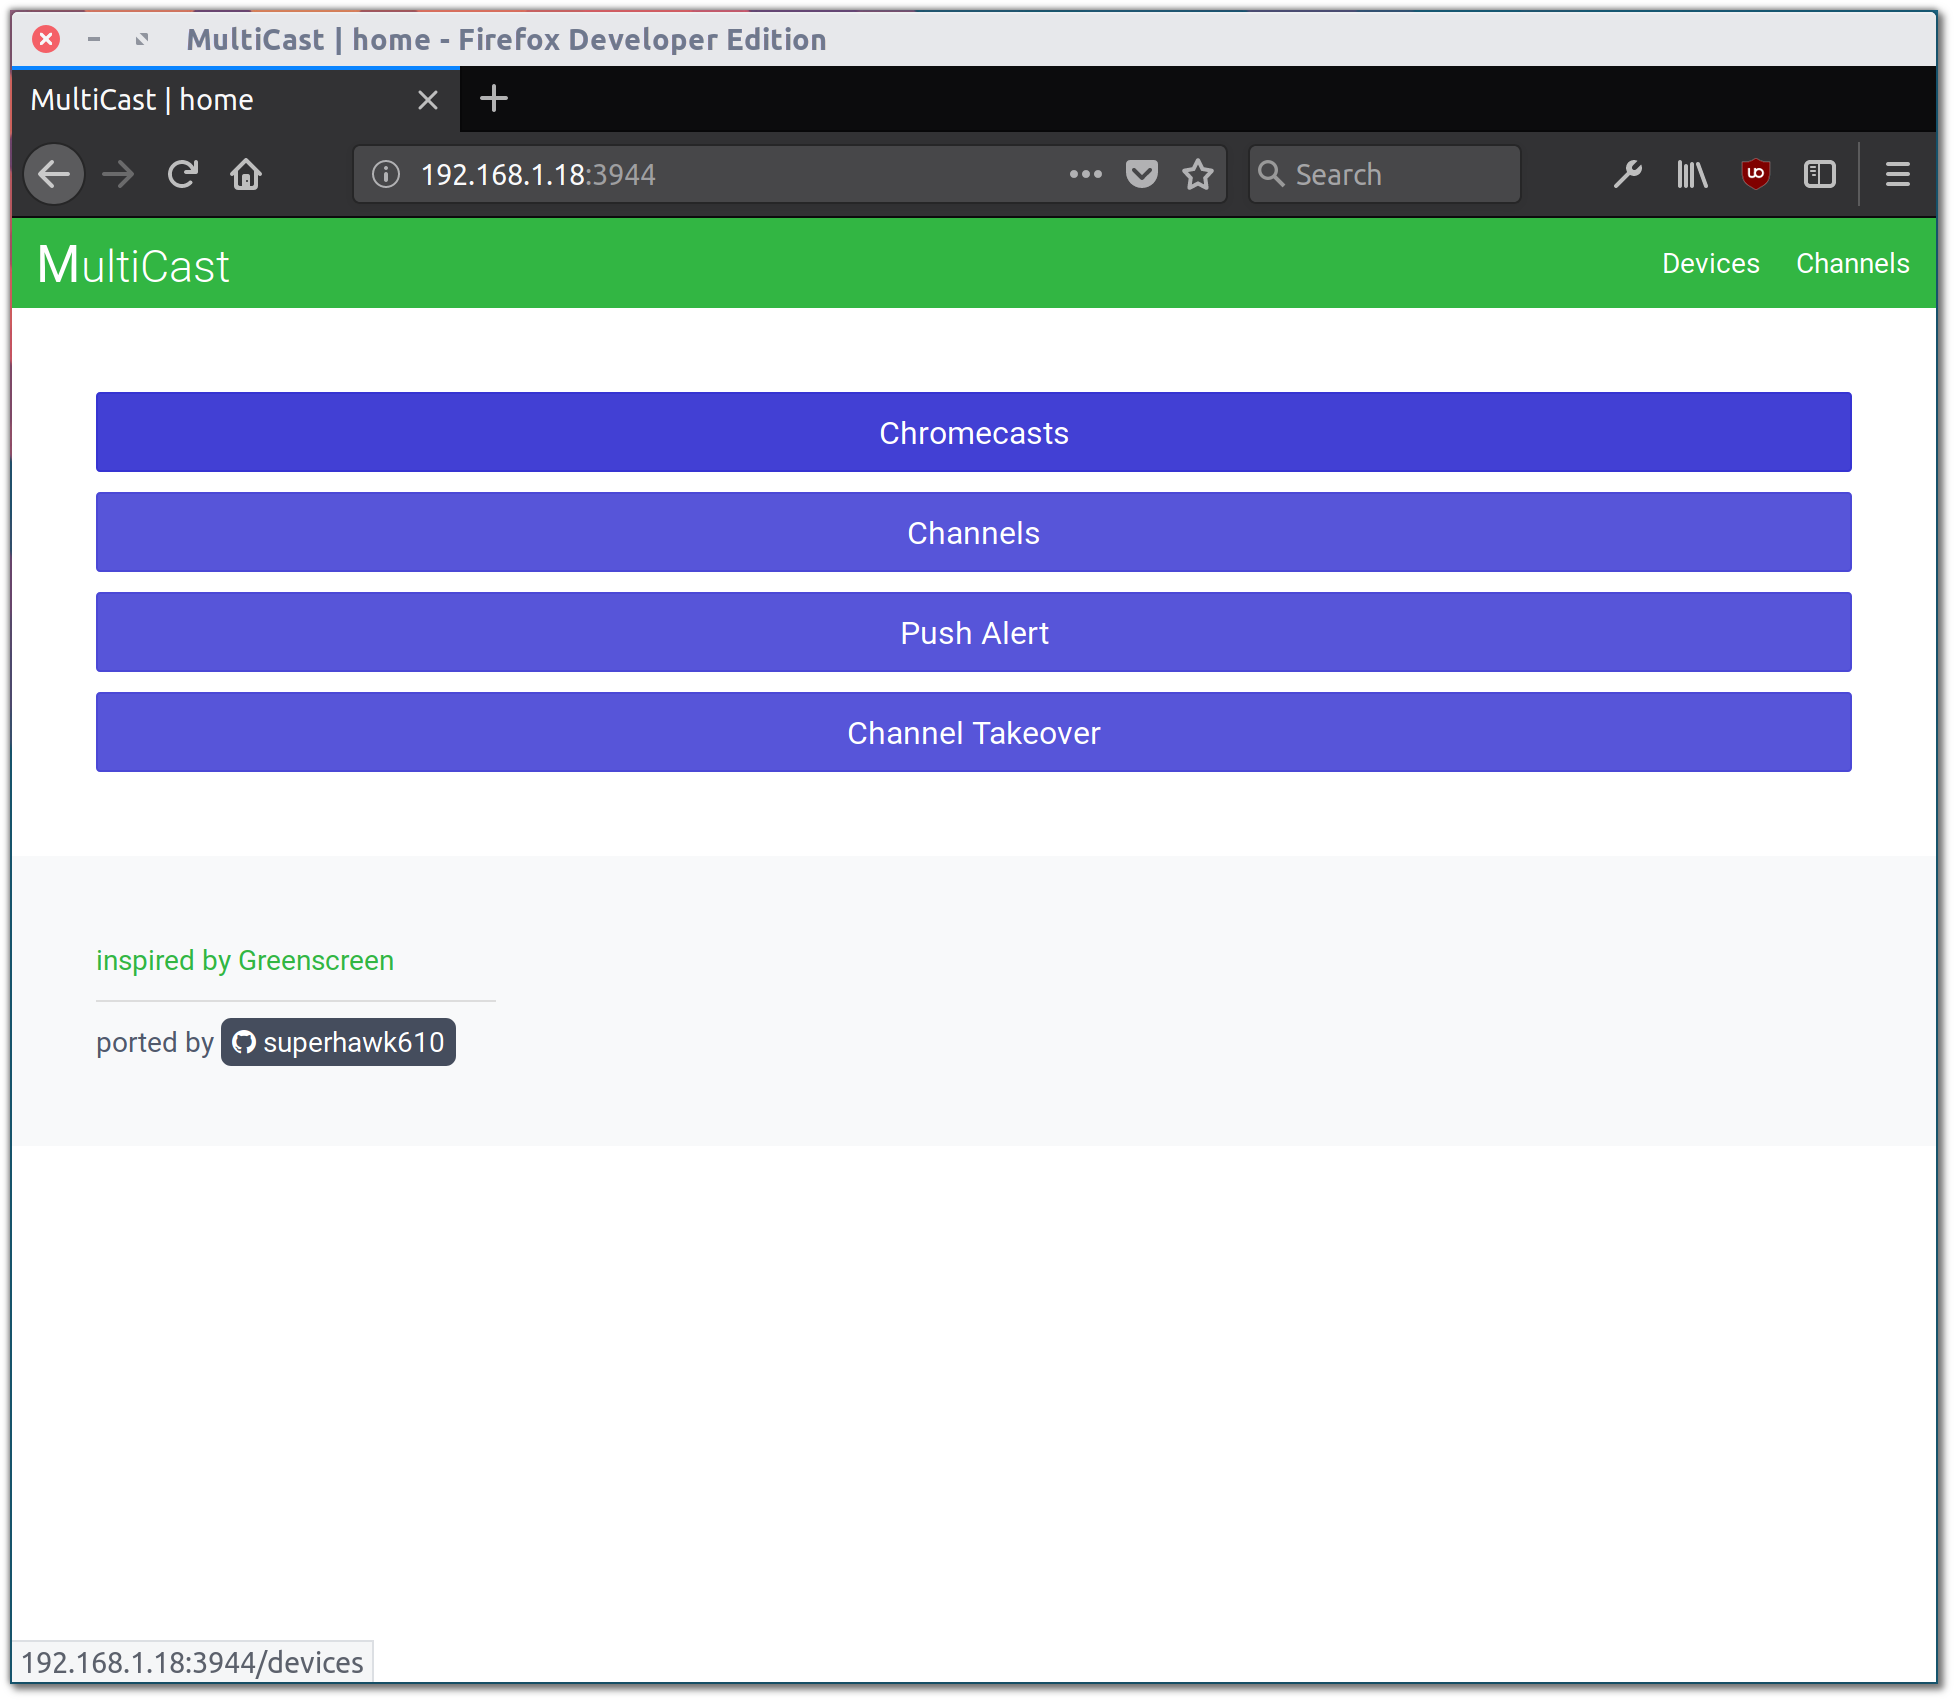
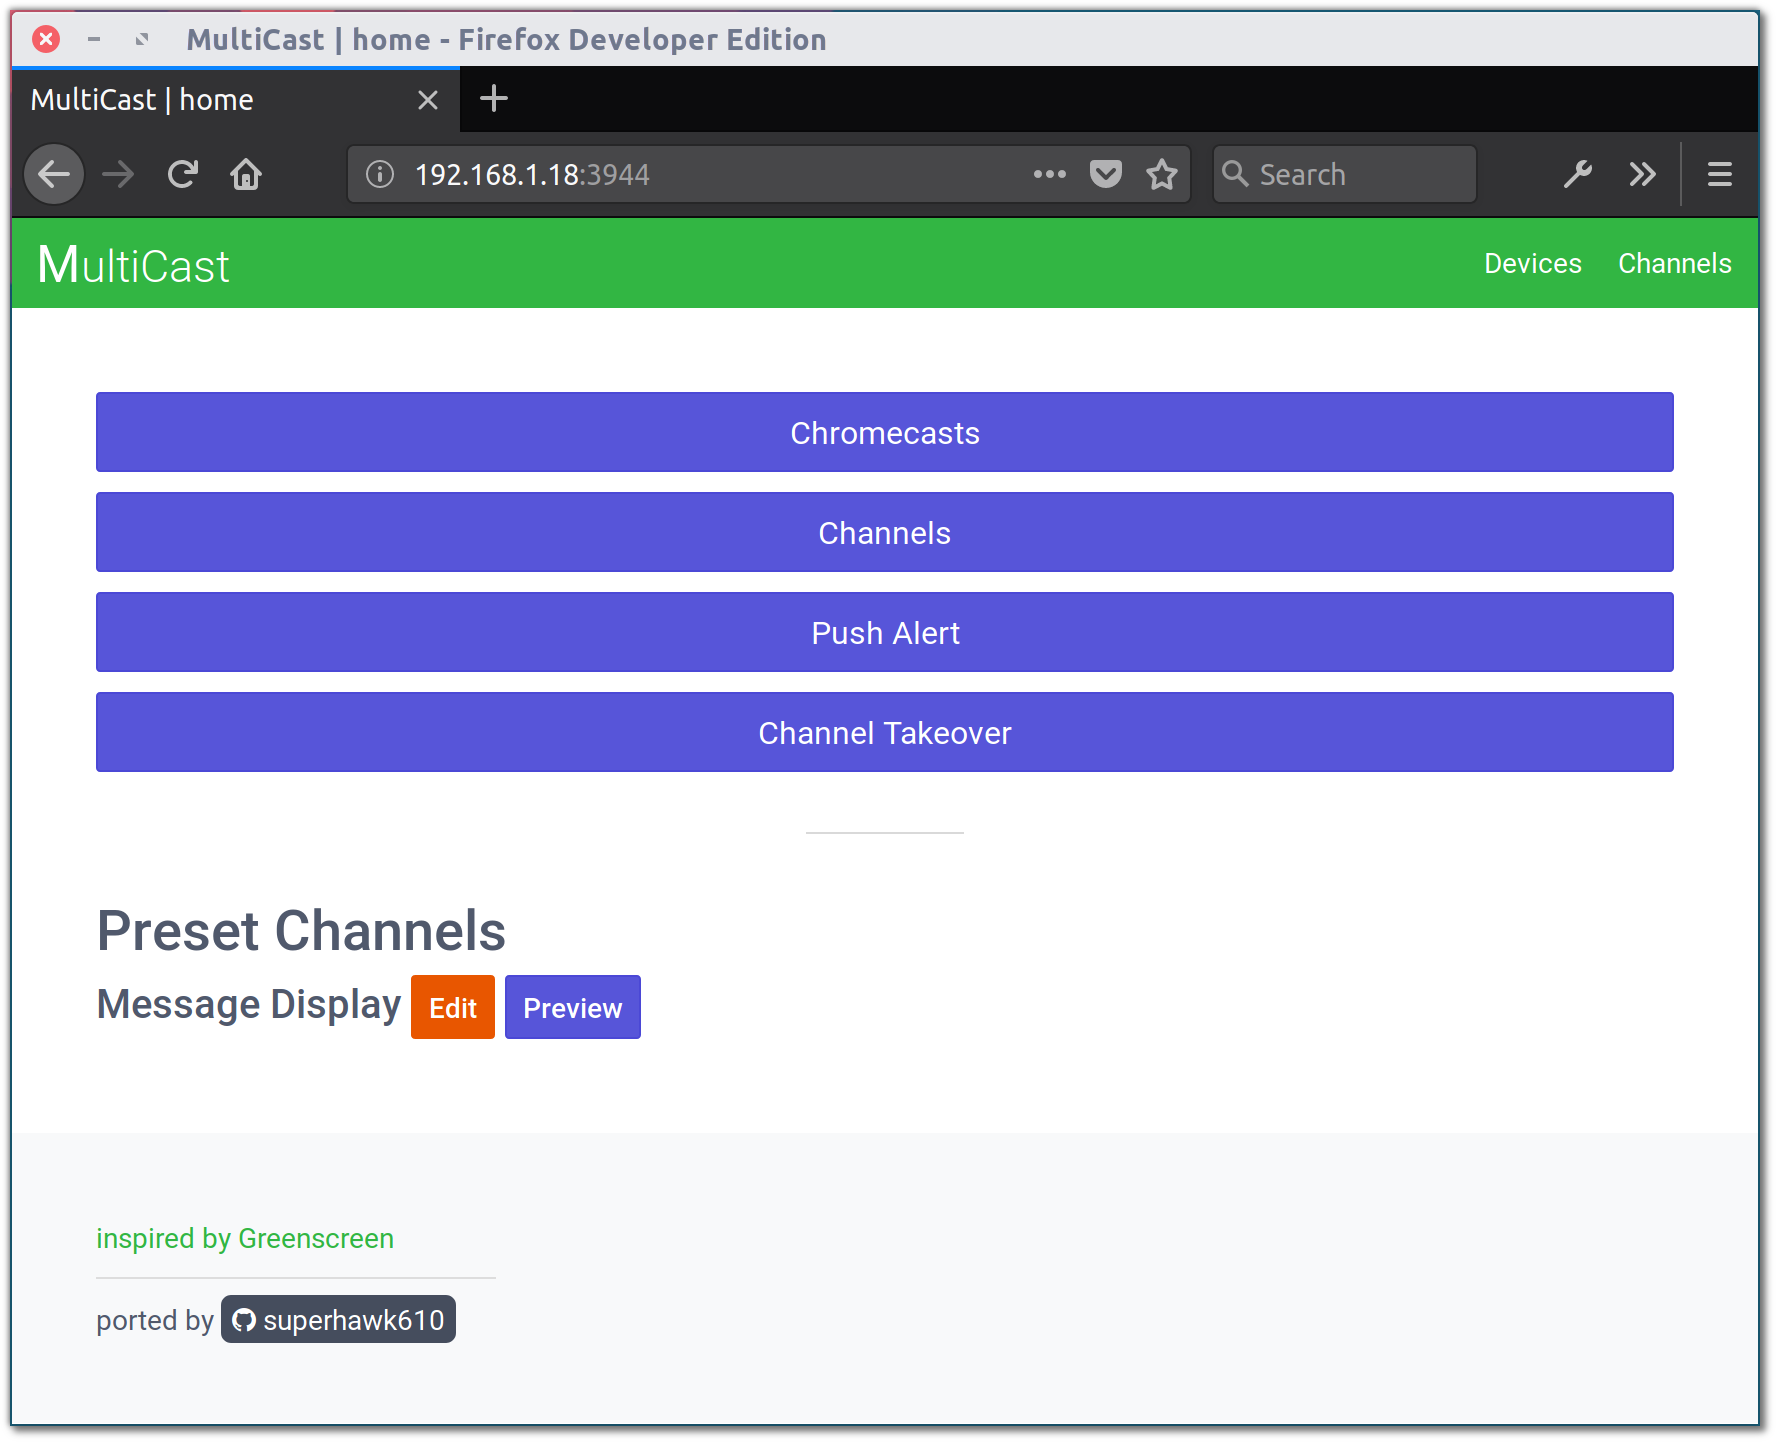
Update README.md to prep for NPM package - bumped minor version - fixed a bug where server would attempt to emit events to clients that had not connected - updated screenshot to reflect new messages channel

Changed region(s): [[0.0, 0.0, 1.0, 0.9986], [0.0619, 0.8426, 0.2787, 0.9362]]

diff --git a/app/main.js b/app/main.js
@@ -297,8 +297,11 @@ app.get('/device/:device_id', (req, res) => {
 
 app.get('/device/:device_id/connect', (req, res) => {
   var d = devices.find(d => d.deviceId == req.params.device_id)
-  if (d.status == 'offline' || d.status == 'waiting') launchHub(d.address)            // launch hub if not already open
-  else clients.find(c => stripIPv6(c.handshake.address) == d.address).emit('refresh') // hard reload page if already open
+  if (d.status == 'offline' || d.status == 'waiting') launchHub(d.address) // launch hub if not already open
+  else {                                                                   // hard reload page if already open
+    var c = clients.find(c => stripIPv6(c.handshake.address) == d.address)
+    if (c) c.emit('refresh')
+  }
   res.sendStatus(200)
 })
 
@@ -309,12 +312,14 @@ app.post('/device/:device_id/edit', (req, res) => {
     devices[i].location = req.body.location // update local info with location
     if (req.body.channel) {
       Channel.findOne({ _id: req.body.channel }).exec((err, channel) => {
-        clients.find(c => stripIPv6(c.handshake.address) == devices[i].address).emit('change_channel', channel)
+        var c = clients.find(c => stripIPv6(c.handshake.address) == devices[i].address)
+        if (c) c.emit('change_channel', channel)
         devices[i].channel = channel // update local info with new channel info for any applicable devices
         res.send(req.params.device_id)
       })
     } else {
-      clients.find(c => stripIPv6(c.handshake.address) == devices[i].address).emit('change_channel', null)
+      var c = clients.find(c => stripIPv6(c.handshake.address) == devices[i].address)
+      if (c) c.emit('change_channel', null)
       res.send(req.params.device_id)
     }
   })

diff --git a/build/css/main.css b/build/css/main.css
@@ -1,3 +1,7 @@
+html, body {
+  background: #f8f9fa;
+}
+
 #toast {
   width: 400px;
   max-width: 100%;
@@ -19,6 +23,7 @@
 }
 
 #wrapper {
+  background: #fff;
   padding: 3em;
 }
 

diff --git a/README.md b/README.md
@@ -1,4 +1,4 @@
-MultiCast <small style='color: #ccc'>v0.1</small>
+MultiCast v0.2
 =========
 
 :green_heart: A persistent solution to presenting content across multiple Chromecast devices, inspired by [Greenscreen](http://greenscreen.io/).
@@ -62,7 +62,9 @@ This project requires Node.js and NPM (bundled with Node), as well as a MongoDB 
 
 This project depends on [node_mdns](https://github.com/agnat/node_mdns), which in turn requires a mDNS stack. Follow the installation instructions [here](https://github.com/agnat/node_mdns#installation) for whichever platform you are on to install a mDNS stack. If you're on Linux, this is as simple as
 
-    sudo apt-get install build-essential libavahi-compat-libdnssd-dev
+```shell
+sudo apt-get install build-essential libavahi-compat-libdnssd-dev
+```
 
 ### Setup
 
@@ -78,29 +80,39 @@ You now need to register your Chromecast devices as developer devices. For each 
 
 Clone this repository to your local machine, then head into the cloned directory and create a `.config` file for your setup.
 
-    git clone https://github.com/superhawk610/multicast
-    cd multicast
-    cp .config.template .config
-    vim .config
+```shell
+git clone https://github.com/superhawk610/multicast
+cd multicast
+cp .config.template .config
+vim .config
+```
 
 **NOTE**: You should leave `mongoAuthSource` and `mongoPort` set to their default unless you know what you're doing.
 
 Install Node modules
 
-    npm install
+```shell
+npm install
+```
 
 Build files using Gulp
 
-    gulp
+```shell
+gulp
+```
 
 Run the application
 
-    node .
+```shell
+node .
+```
 
 Alternatively, you may install multicast as a binary and run from there
 
-    npm install -g
-    multicast
+```shell
+npm install -g
+multicast
+```
 
 Head over to `http://YOUR_LOCAL_IP:3944/` in your browser to get started, then simply follow the [Usage](#usage) guide to get off the ground.
 
@@ -108,13 +120,17 @@ Head over to `http://YOUR_LOCAL_IP:3944/` in your browser to get started, then s
 
 In order for a Chromecast to establish and maintain a connection with a Cast sender, the sender must open two ports:
 
-    1900/UDP    (DIAL)
-    5353/UDP    (mDNS)
+```
+1900/UDP    (DIAL)
+5353/UDP    (mDNS)
+```
 
 Make sure that the device running MultiCast has these ports open, as well as the standard HTTP ports
 
-    80/TCP/UDP  (HTTP)
-    443/TCP/UDP (HTTPS)
+```
+80/TCP/UDP  (HTTP)
+443/TCP/UDP (HTTPS)
+```
 
 ### Flags
 
@@ -124,7 +140,7 @@ Make sure that the device running MultiCast has these ports open, as well as the
 
 ### Common Errors
 
-```
+```shell
 *** WARNING *** The program 'nodejs' uses the Apple Bonjour compatibility layer of Avahi.
 *** WARNING *** Please fix your application to use the native API of Avahi!
 *** WARNING *** For more information see http://0pointer.de/avahi-compat?s=libdns_sd&e=nodejs
@@ -159,14 +175,6 @@ The most recent version of node_mdns has an incompatibility with v8.6 due to cha
 
 If you run into any problems while using this, please report them [here](https://github.com/superhawk610/multicast/issues).
 
-## Features
-
-- [x] Server-side casting (support any browser)
-- [ ] Rotating URLs for a channel
-- [ ] Additional channel layouts
-- [ ] Persistence for push alerts (view on device that joins after alert)
-- [ ] Support for multiple push alerts at once per channel
-
 ## Authors
 
 - <img src="https://avatars0.githubusercontent.com/u/18172185?v=4&s=64" width=32> Aaron Ross - *initial work* - [superhawk610](https://github.com/superhawk610)
@@ -200,9 +208,11 @@ In `app/views/channel.pug`, add a div under `#channel-layout` with the class `la
 
 Style this div in `build/css/channel-edit.css` to conform to the existing channel layouts:
 
-    width: 250px;
-    height: 150px;
-    border: 1px solid rgb(202, 206, 215);
+```css
+width: 250px;
+height: 150px;
+border: 1px solid rgb(202, 206, 215);
+```
 
 Once you finish, don't forget to `gulp` everything to apply your new layout.
 
